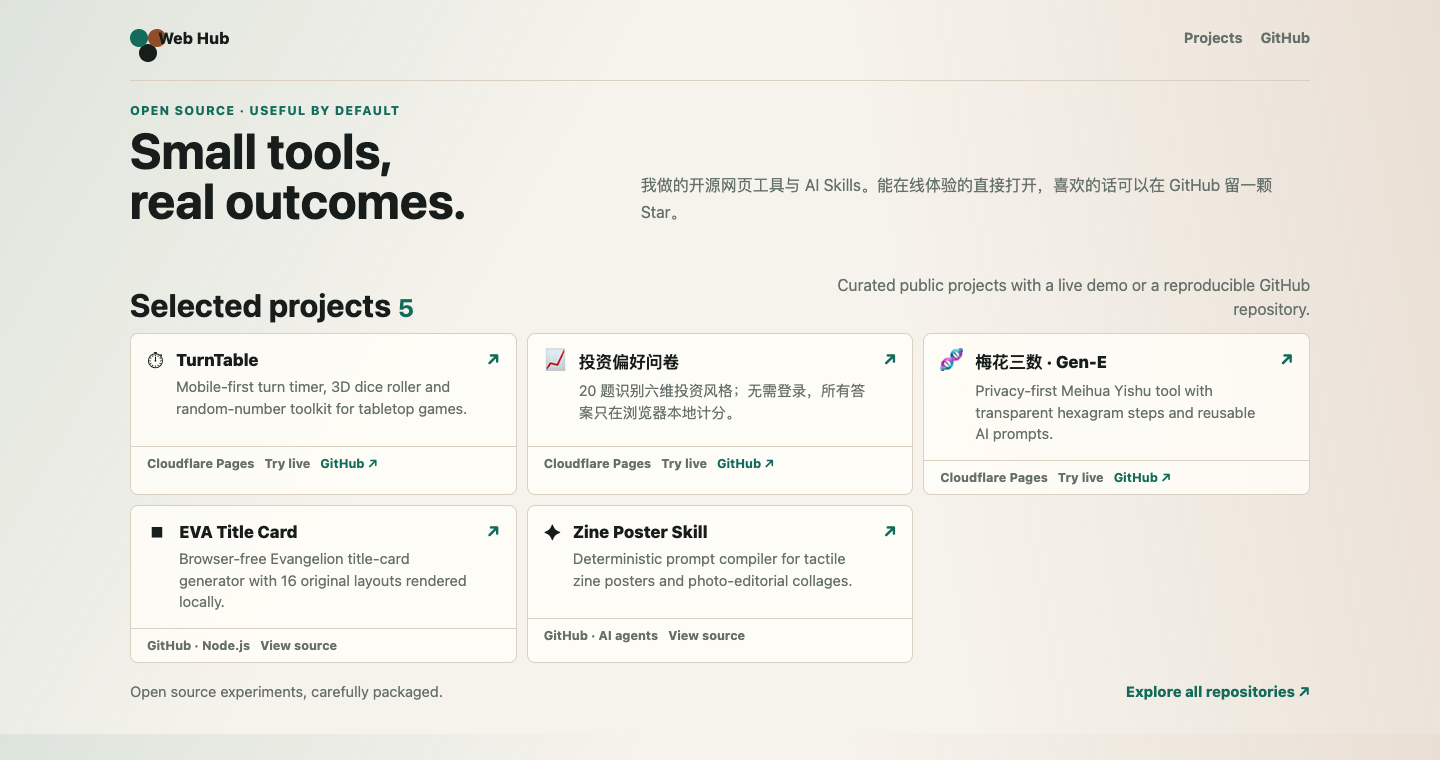
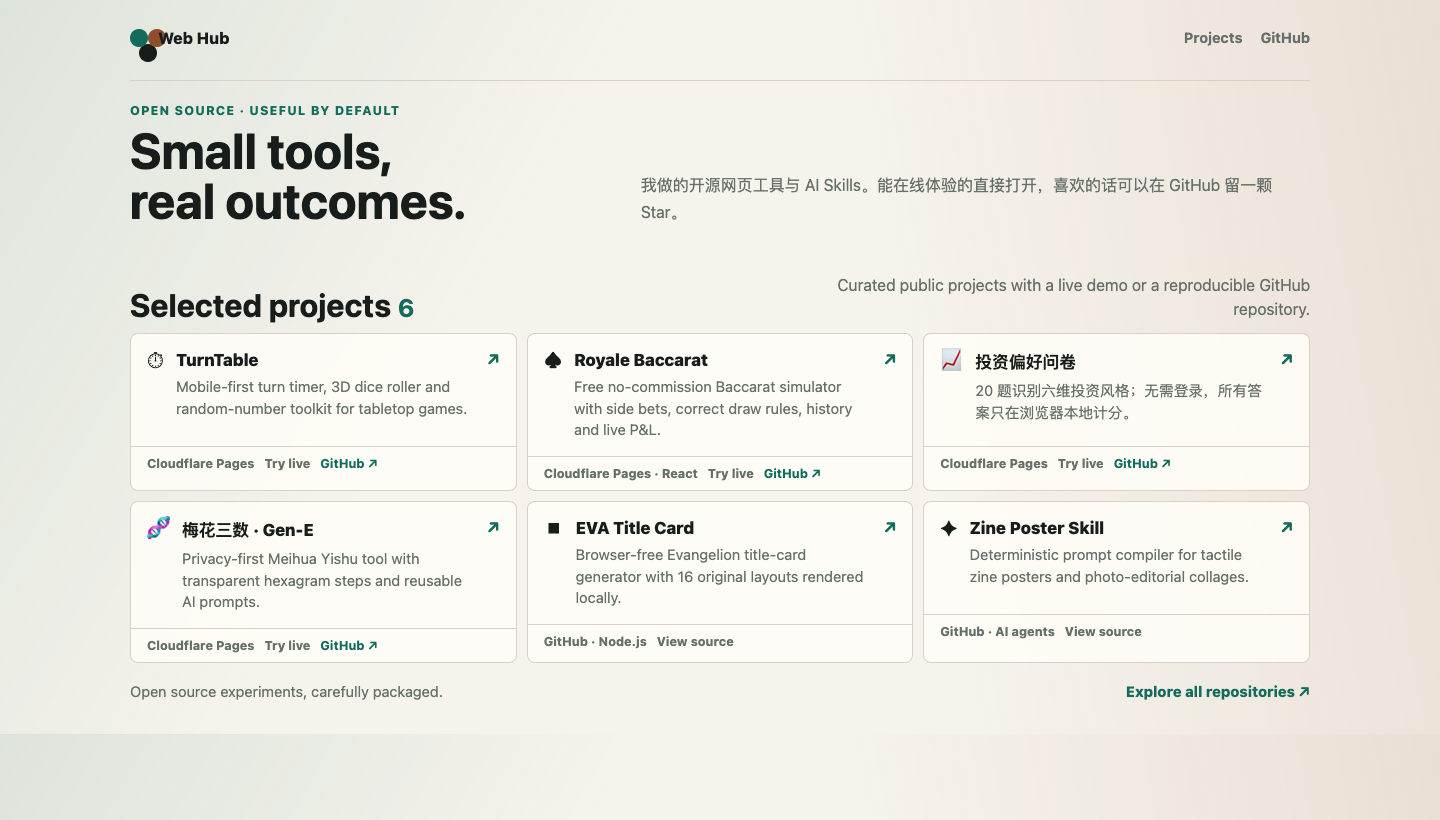
Feature secured Royale Baccarat

diff --git a/index.html b/index.html
@@ -6,7 +6,7 @@
     <title>Jason's Open Source Lab｜网页工具与 AI Skills</title>
     <meta
       name="description"
-      content="探索 Jason 的开源网页工具与 AI Skills：桌游计时器、投资风格测试、梅花易数、EVA 标题卡与 Zine 海报生成器。"
+      content="探索 Jason 的开源网页工具与 AI Skills：桌游计时器、百家乐模拟器、投资风格测试、梅花易数、EVA 标题卡与 Zine 海报生成器。"
     >
     <link rel="canonical" href="https://jas0nhg-web-projects-hub.pages.dev/">
     <meta name="theme-color" content="#126b5b">

diff --git a/app.js b/app.js
@@ -9,6 +9,15 @@ const projects = [
     status: "Try live",
   },
   {
+    name: "Royale Baccarat",
+    emoji: "♠",
+    url: "https://royale-baccarat.pages.dev/",
+    source: "Cloudflare Pages · React",
+    repo: "https://github.com/jas0nh/Royale-Baccarat",
+    description: "Free no-commission Baccarat simulator with side bets, correct draw rules, history and live P&L.",
+    status: "Try live",
+  },
+  {
     name: "投资偏好问卷",
     emoji: "📈",
     url: "https://investment-preference.pages.dev/",
